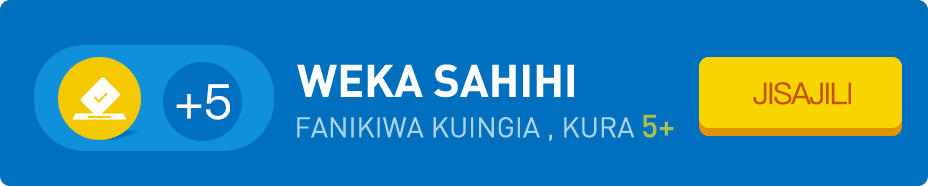
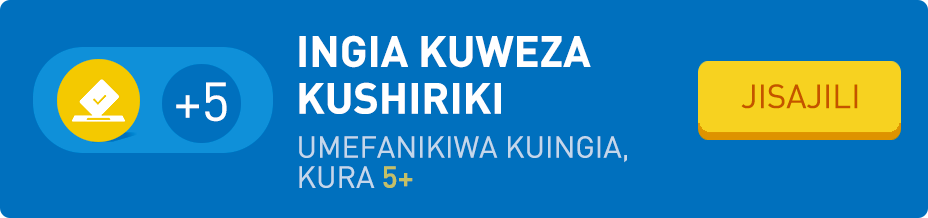
修改引导登录文案图，修复安卓高版本规则内滚，打开报名入口

Changed region(s): [[0.0312, 0.2151, 1.0, 0.8602], [0.2812, 0.1613, 0.6562, 0.5376]]

diff --git a/pages/hybrid/vote/BSSRegister.vue b/pages/hybrid/vote/BSSRegister.vue
@@ -108,7 +108,7 @@
                 </div>
                 <img src="~assets/img/vote/BSSRegister/bg-form-bottom.png" alt class="form-img" />
             </div>
-            <!-- <img v-show="isVoteStart" src="~assets/img/vote/BSSRegister/ic-to-vote.png" alt class="to-vote" @click="toVote" /> -->
+            <img v-show="isVoteStart" src="~assets/img/vote/BSSRegister/ic-to-vote.png" alt class="to-vote" @click="toVote" />
             <div class="ad"></div>
             <img class="text" src="~assets/img/vote/BSSRegister/text-two.png" alt />
             <div class="share-box">
@@ -299,34 +299,40 @@ export default {
         this.getVoteInfo()
         this.getYear()
         this.getVideoMsg()
-        if (
-            navigator.userAgent.indexOf('Android 7') > 0 ||
-            navigator.userAgent.indexOf('Android 8') > 0 ||
-            navigator.userAgent.indexOf('Android 9') > 0
-        ) {
-            document.querySelector('.wrapper').style.height = '100vh'
-            this.$nextTick(() => {
-                this.bscroll = new BScroll('.wrapper', {
-                    startY: 0,
-                    bounce: {
-                        top: false,
-                        bottom: false,
-                        left: false,
-                        right: false
-                    },
-                    click: true,
-                    tap: true,
-                    observeDOM: false
-                })
-            })
-        }
+        this.newBscroll()
     },
     methods: {
+        newBscroll() {
+            if (
+                navigator.userAgent.indexOf('Android 7') > 0 ||
+                navigator.userAgent.indexOf('Android 8') > 0 ||
+                navigator.userAgent.indexOf('Android 9') > 0
+            ) {
+                document.querySelector('.wrapper').style.height = '100vh'
+                this.$nextTick(() => {
+                    this.bscroll = new BScroll('.wrapper', {
+                        startY: 0,
+                        bounce: {
+                            top: false,
+                            bottom: false,
+                            left: false,
+                            right: false
+                        },
+                        click: true,
+                        tap: true,
+                        observeDOM: false
+                    })
+                })
+            }
+        },
         toVote() {
-            // this.$router.push(`/hybrid/vote/BSSVote`)
-            window.location.href= '/hybrid/vote/BSSVote'
+            this.$router.push(`/hybrid/vote/BSSVote`)
         },
         showRule() {
+            this.bscroll &&
+                this.$nextTick(() => {
+                    this.bscroll.disable()
+                })
             this.show_rules = true
             // 页面静止
             document.body.style.overflow = 'hidden'
@@ -337,6 +343,7 @@ export default {
             // 页面静止
             document.body.style.overflow = 'auto'
             document.body.style.position = 'static'
+            this.newBscroll()
         },
         cdnPic(src) {
             return cdnPicSrc.call(this, src)

diff --git a/pages/hybrid/vote/BSSVote.vue b/pages/hybrid/vote/BSSVote.vue
@@ -267,30 +267,33 @@ export default {
         setInterval(this.scroll, 2000)
         this.$route.query.pin && setCookie('vote_share_user', this.$route.query.pin) // 分享源用户记录
         !getCookie('vote_share_down') && setCookie('vote_share_down', this.vote_sign) // 是否点击过下载
-        if (
-            navigator.userAgent.indexOf('Android 7') > 0 ||
-            navigator.userAgent.indexOf('Android 8') > 0 ||
-            navigator.userAgent.indexOf('Android 9') > 0
-        ) {
-            document.querySelector('.wrapper').style.height = '100vh'
-            this.$nextTick(() => {
-                this.bscroll = new BScroll('.wrapper', {
-                    startY: 0,
-                    bounce: {
-                        top: false,
-                        bottom: false,
-                        left: false,
-                        right: false
-                    },
-                    click: true,
-                    tap: true,
-                    observeDOM: false
-                })
-            })
-        }
+        this.newBscroll()
     },
 
     methods: {
+        newBscroll() {
+            if (
+                navigator.userAgent.indexOf('Android 7') > 0 ||
+                navigator.userAgent.indexOf('Android 8') > 0 ||
+                navigator.userAgent.indexOf('Android 9') > 0
+            ) {
+                document.querySelector('.wrapper').style.height = '100vh'
+                this.$nextTick(() => {
+                    this.bscroll = new BScroll('.wrapper', {
+                        startY: 0,
+                        bounce: {
+                            top: false,
+                            bottom: false,
+                            left: false,
+                            right: false
+                        },
+                        click: true,
+                        tap: true,
+                        observeDOM: false
+                    })
+                })
+            }
+        },
         toHowToGetVote() {
             this.mSendEvLog('goto_click', '', '')
             document.getElementById('text2').scrollIntoView()
@@ -301,22 +304,19 @@ export default {
             // window.location.href = '/hybrid/vote/BSSVoteDetail'
         },
         showRule() {
+            this.bscroll &&
+                this.$nextTick(() => {
+                    this.bscroll.disable()
+                })
             this.show_rules = true
             document.body.style.overflow = 'hidden'
             document.body.style.position = 'fixed'
-            this.bscroll &&
-                this.$nextTick(() => {
-                    this.bscroll.refresh()
-                })
         },
         closeRule() {
             this.show_rules = false
             document.body.style.overflow = 'auto'
             document.body.style.position = 'static'
-            this.bscroll &&
-                this.$nextTick(() => {
-                    this.bscroll.refresh()
-                })
+            this.newBscroll()
         },
         toRegister() {
             this.$router.push(`/hybrid/vote/BSSRegister`)
